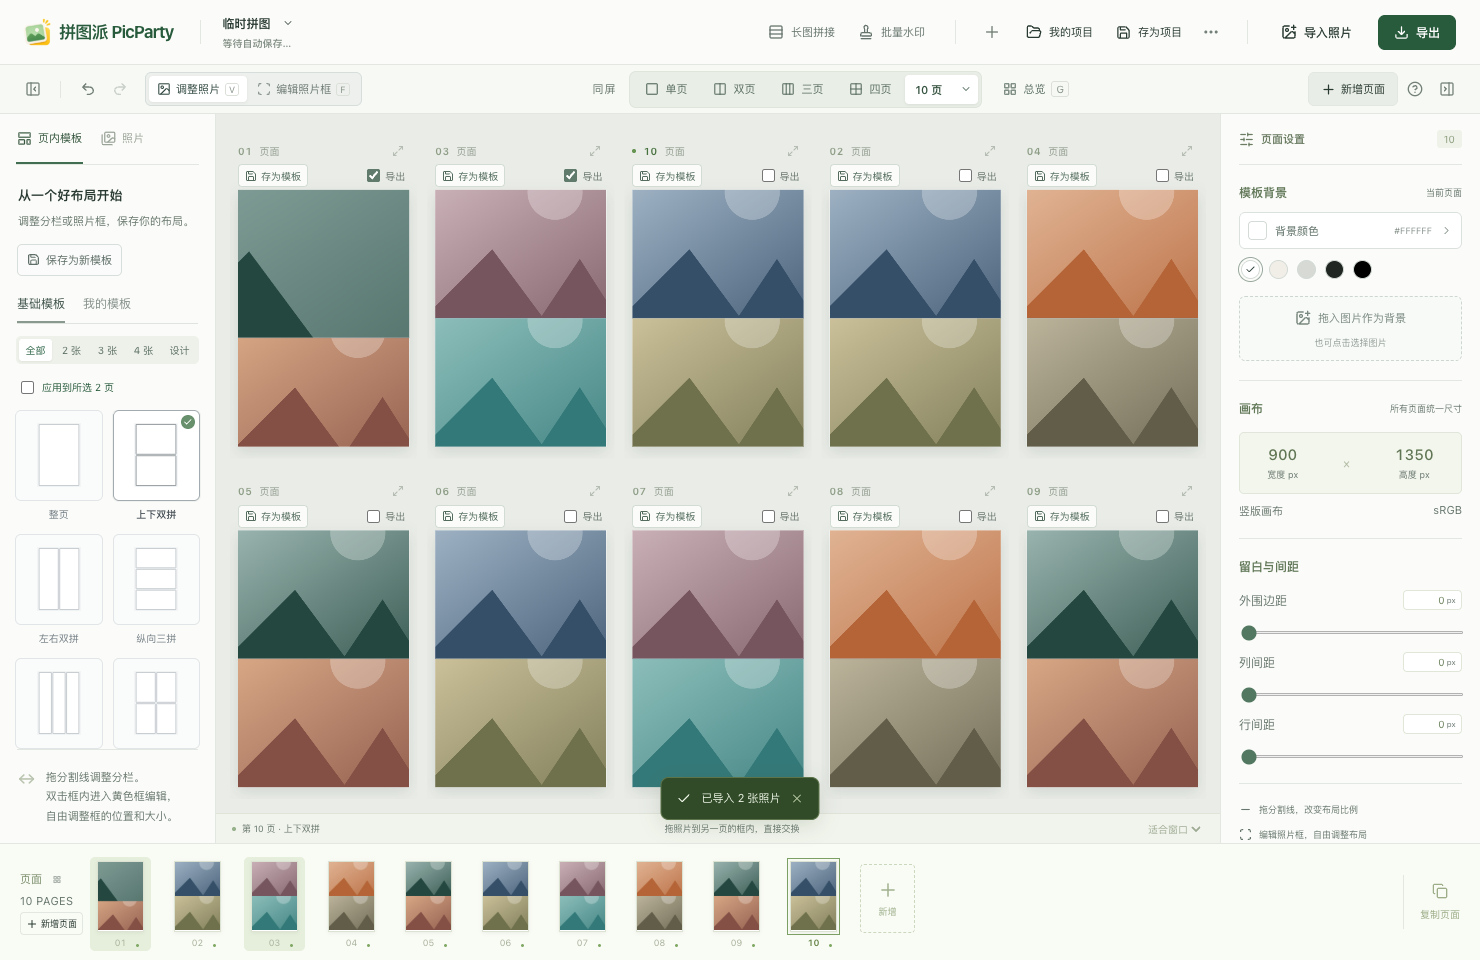
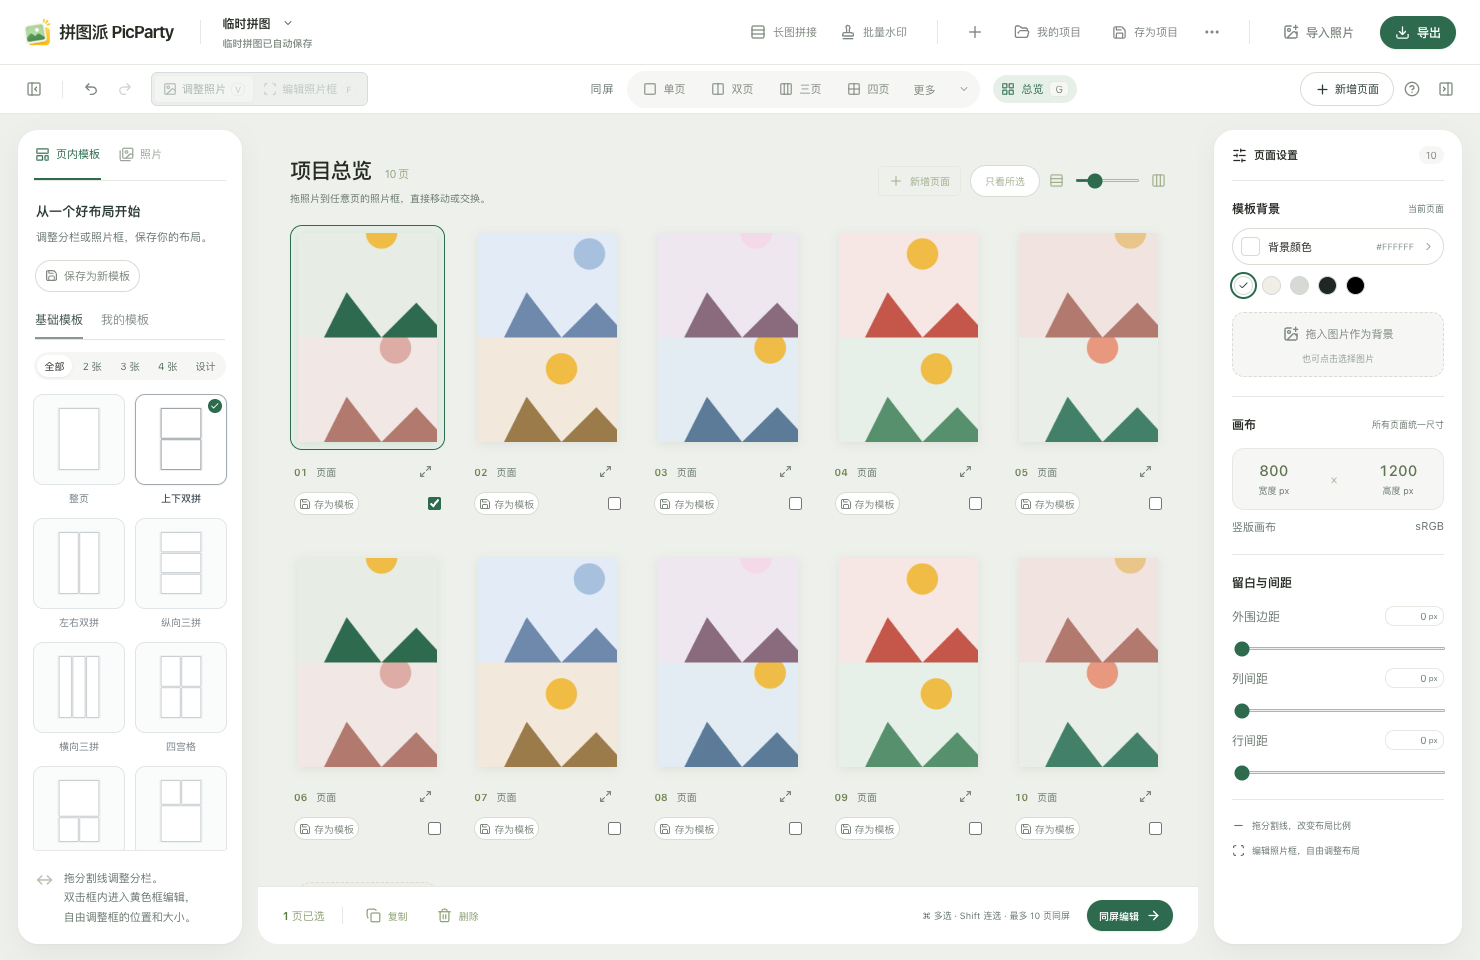
Docs: 更新 README 版本说明与十页同屏预览图（扁平化界面）

diff --git a/README.md b/README.md
@@ -1,6 +1,6 @@
 # 拼图派 PicParty · 摄影拼图工作台
 
-拼图派 PicParty 是面向摄影师的 macOS 拼图、自由排版和批量水印应用。`2.1.2-rc.1` 为 Apple Silicon 候选版，原生部署目标为 macOS 13.0，前端目标为 Safari 16。
+拼图派 PicParty 是面向摄影师的 macOS 拼图、自由排版和批量水印应用。`2.1.2-rc.2` 为 Apple Silicon 候选版，原生部署目标为 macOS 13.0，前端目标为 Safari 16。
 
 **作者 / Author：曼陀罗 · © 2026 · [MIT License](LICENSE)**
 
